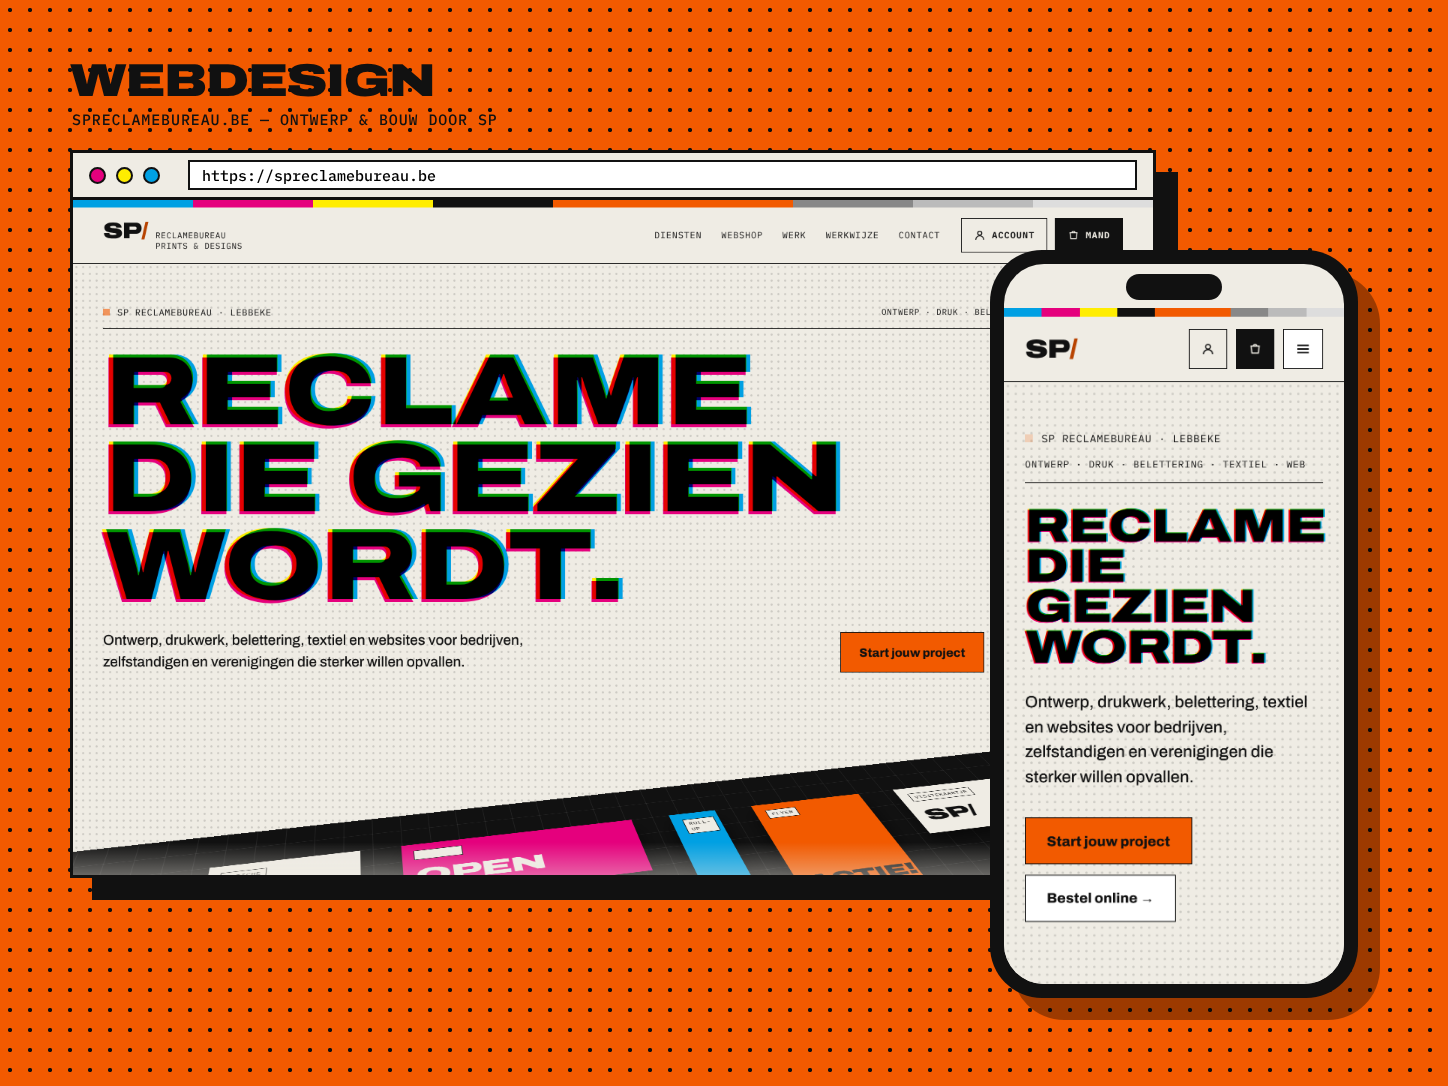
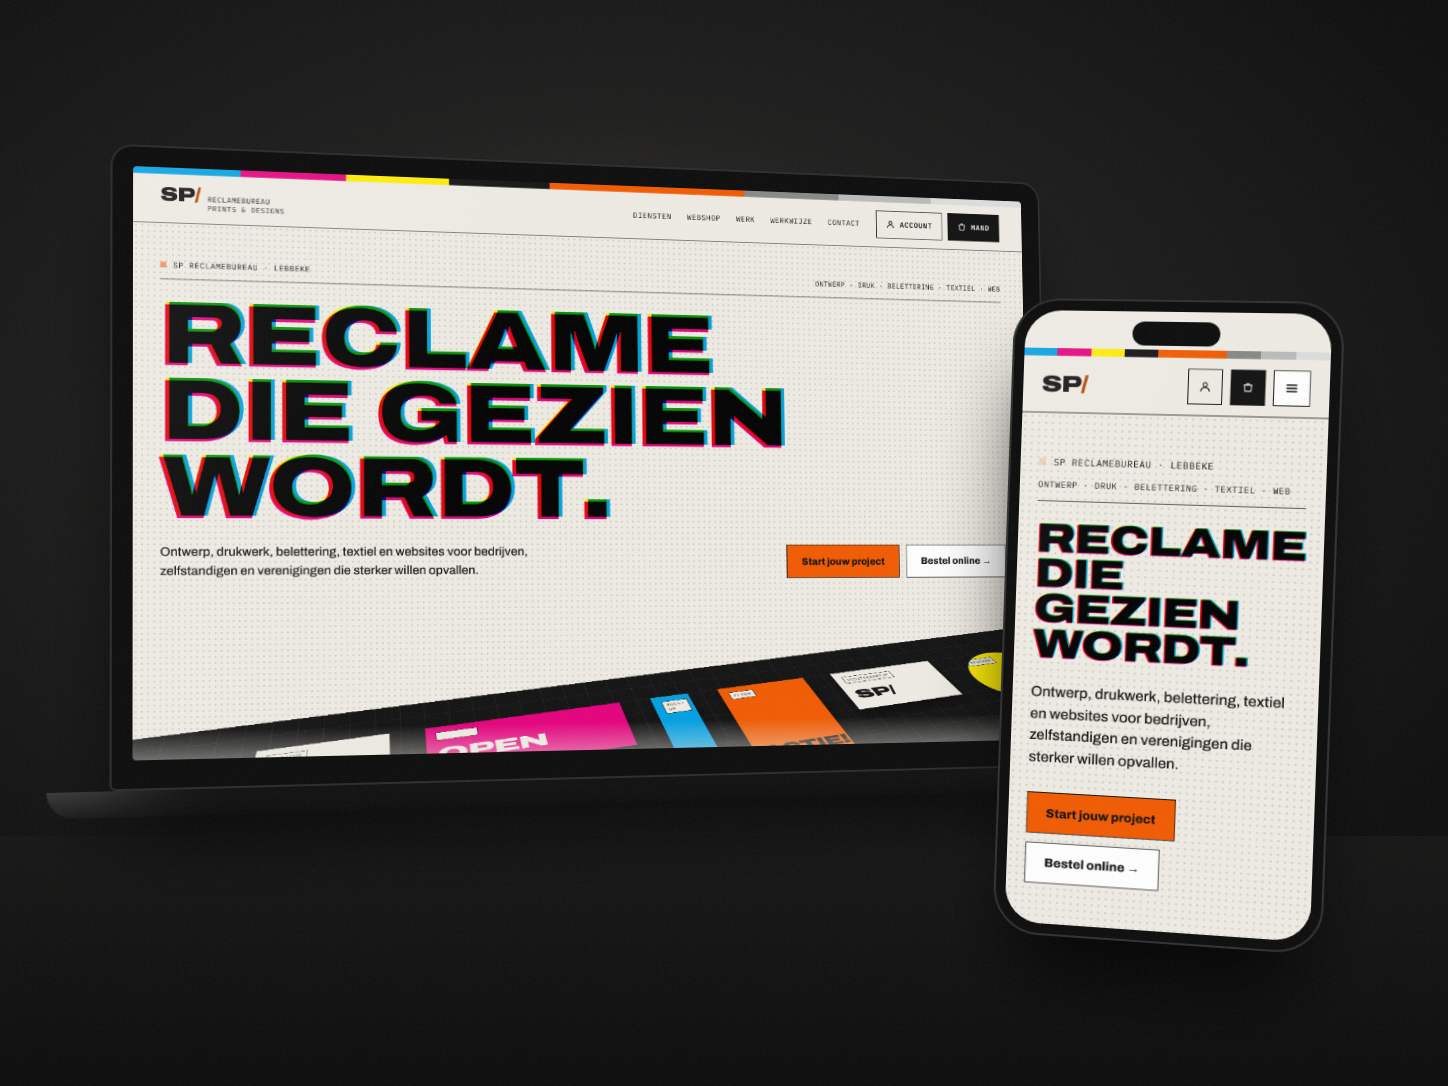
Webdesignbeeld in dezelfde donkere fotostijl als de rest; bijschrift portfolio loopt niet meer over elkaar
Claude-Session: https://claude.ai/code/session_01FZfcS3CqH6eNHxn7ZTmq7b

diff --git a/assets/print.css b/assets/print.css
@@ -243,7 +243,7 @@ img{max-width:100%}
 .proof .ph{position:relative;display:block;height:270px;overflow:hidden;border:1px solid var(--ink)}
 .proof img{width:100%;height:100%;object-fit:cover;display:block;filter:grayscale(.15) contrast(1.05);transition:transform .6s}
 .proof:hover img{transform:scale(1.06)}
-.proof .cap{display:flex;justify-content:space-between;align-items:baseline}.proof .cap .wide{font-size:20px;text-transform:uppercase}.proof .cap .mono{font-size:11px}
+.proof .cap{display:flex;justify-content:space-between;align-items:baseline;gap:12px}.proof .cap .wide{min-width:0;overflow-wrap:anywhere}.proof .cap .mono{flex:none;white-space:nowrap}.proof .cap .wide{font-size:20px;text-transform:uppercase}.proof .cap .mono{font-size:11px}
 
 .sec-dark{background:var(--ink);color:var(--paper);padding:110px 0;margin-top:110px}
 .sec-dark p{color:#d6d2c8}
